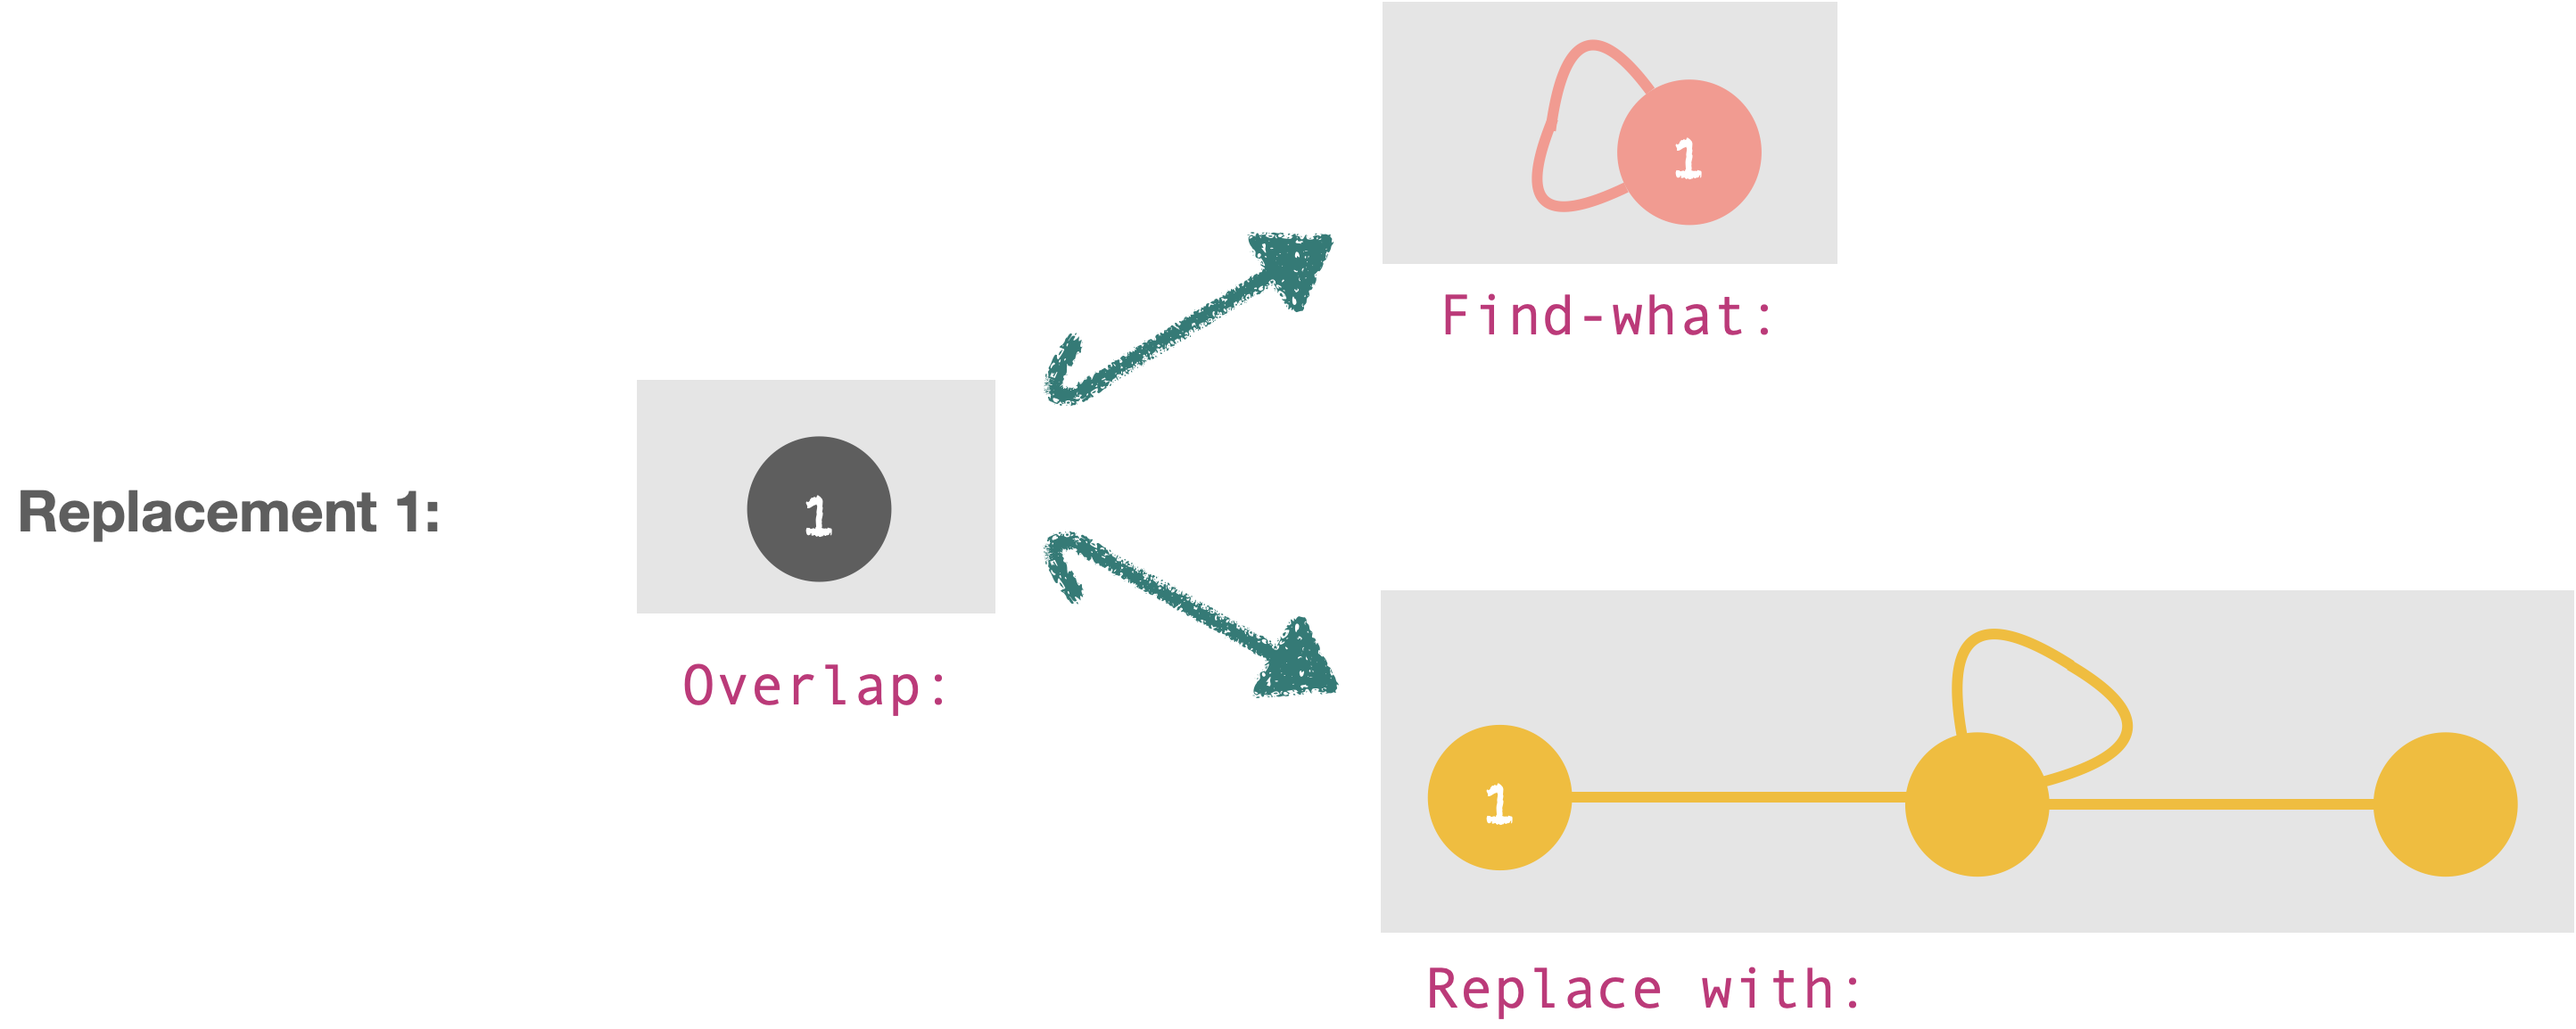
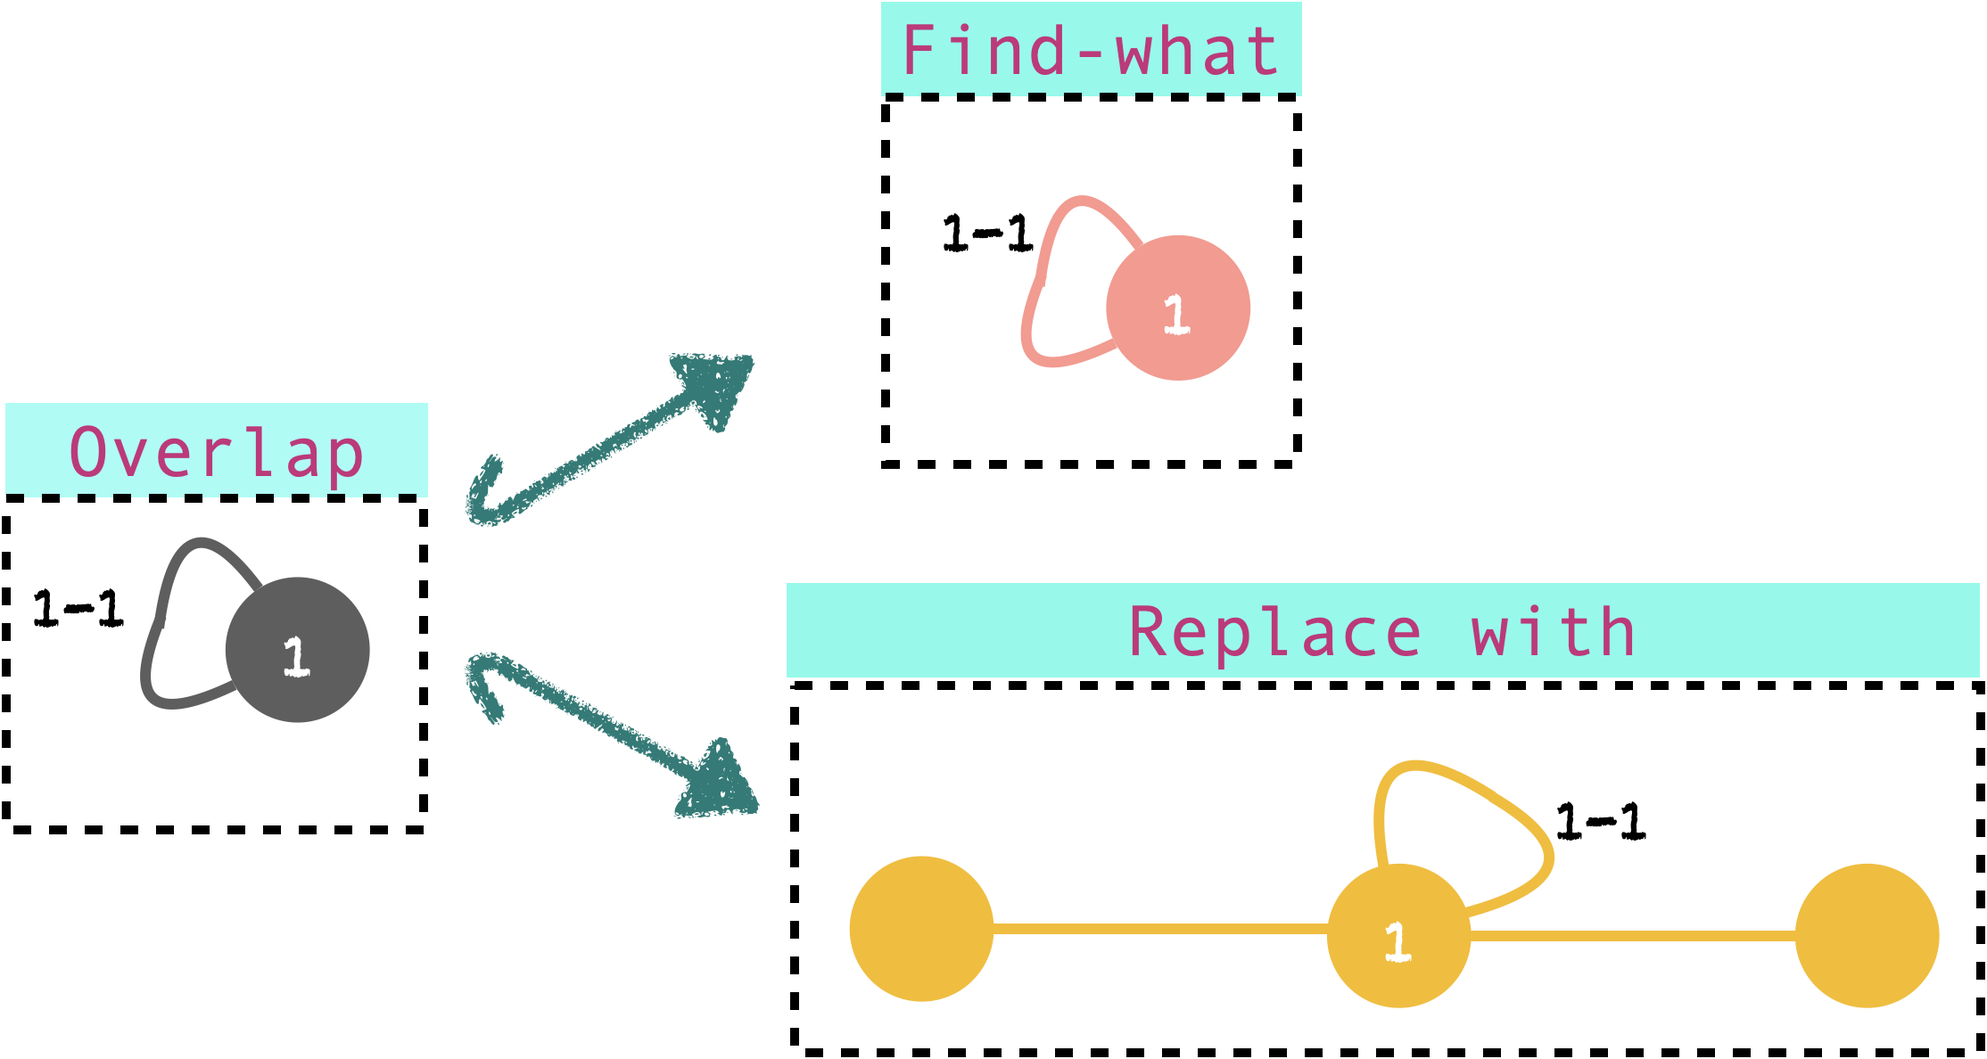
Ch 6: More updates

diff --git a/chp6-dpo.md b/chp6-dpo.md
@@ -12,16 +12,9 @@ kernelspec:
 
 # Chapter 6: Cut-Copy-Glue Graphs
 
-[Not ready for review]
+"Find-and-replace" feature of text editors is one of the most powerful innovations of the 20th century. Inspite of unavailability of statistics, the advantage of this feature is tangible and undeniable! Beyond text editors, the concept of "find and replace" has also caused much chaos in the world! When the European conquerors "found" native Americans settlements in Canada, they decided to "replace" the native culture by sending an entire generation of native American children to special missionary schools. This has resulted in trauma and chaos that continues well into the current times. Or a country waging war over another country to replace the exisiting government for political reasons! Or Large-scale replacement of forests by industries and settlements has adversely impacted global climate.
 
-[Our goal is not teaching how to do double pushout rewriting! 
-
-Our goal is to demonstrate how to use graph glueing for a real world problem -- graph rewriting. Or ask questions to guide the reader's thinking to solve the problem. ]
-
-
-"Find-and-replace" feature of text editors is one of the most powerful innovations of the 20th century. Inspite of unavailability of statistics, the advantage of this feature is tangible and undeniable! Beyond text editors, the concept of "find and replace" has also caused much chaos in the world than being helpful! When the European conquerors "found" native Americans settlements in Canada, they decided to "replace" the native culture by sending an entire generation of native American children to special missionary schools. This has resulted in trauma and chaos that continues well into the current times. Or a country trying to replace the ruling government of another country for political reasons. (may be an ecology example).  
-
-> We know in hindsight that these are very bad decisions for a society! But, what was missed in the decision making process? 
+> We know in hindsight these approaches have lead humanity to face issues bigger than they the ones they intended to solve! So, what was missed in the decision making process? 
 
 Let us consider a fun and non-political example -- the struggle of qutting sugar. Here is a simple explanation of a why quitting sugar is so hard! A usual thought-process behind attempting to quit sugar is: 
 
@@ -51,17 +44,17 @@ While being healthy makes a person happy, eating sugar makes a person happy in a
 
 If we want to make a change, it is recommended to start with something simple. The simple thing we shall do in this chapter is to build a way to make changes to an existing graph in a "good" way. By good, we mean that we do not end up with broken connections, and make precisely the changes that are intended. 
 
-Making changes to a graph may involve adding new vertices/edges (hence adding new connections) or removing existing vertices/edges (hence removing existing connections) or both. And these changes happen over particular region(s) of the graph.
+Making changes to a graph means adding new vertices/edges or removing existing vertices/edges or both. And these changes happen over particular region(s) of the graph (like a textual find and replace).
 
 A lot of concepts in the world around us are modelled as graphs. Hence, building a way to changing an existing graph that is guaranteed to be good is much more than just a theoretical exercise.
 
 Let us begin! 
 
-Given a pattern (a graph), and its replacement, our mission is to build a way to "find" the pattern in any host graph and "replace" it in a good way. 
+Given a pattern (a graph), and its replacement, our mission is to "find" the pattern in any host graph and "replace" it in a good way -- first by hand and then in computers. 
 
 ## 6.1. Specs for "find and replace"
 
-Microsoft Word provides an interface as in the picture below, to find a text and replace it with another text. This interface applies to any big body of text content. 
+Suppose we want to find a text and replace it by some other text in a document. Microsoft Word provides an interface as in the picture belowfor this purpose.  
 
 ```{image} assets/Ch6/find-and-replace.png
 :alt: Whoopsy!
@@ -77,9 +70,9 @@ How would the interface for find-and-replace in graphs look like?
 
 To begin with, let us think what would be filled in the "Find what:" and "Replace with:" boxes. 
 
-```Find what``` box must take in a graph. This is the search pattern that will be matched in a host graph. ```Replace with```: box should also take in a graph. This is the replace pattern that will replace the match. 
+```Find what``` box must take in a graph. This is the search pattern that will be matched in a host graph. ```Replace with``` box should also take in a graph. This is the replace pattern that will replace the match. 
 
-Great, we are already half-way through! Next, we must how ```Find what``` and ```Replace with``` relate! In text documents, there is only one way of replacing a text by another. But in graphs, there are multiple ways of replacing one graph by another unless specified. 
+Great, we are already half-way through! Next, we must how ```Find what``` and ```Replace with``` relate! In text documents, there is only one way of replacing a text by another. But in graphs, there are multiple ways of replacing one graph by another unless specified. Our goal is to find a match of `Find what` in the host graph and to replace it with `Replace with`. 
 
 Consider the following example:
 
@@ -92,7 +85,7 @@ Consider the following example:
 
 </br>
 
-Our goal is to find a match of `Find what` in the host graph and to replace it with `Replace with`. There is a match in the host graph which is the vertex with the self-loop. However, there are at least two ways to replace the match with `Replace with`, as shown below.  
+There is a match in the host graph which is the vertex with the self-loop. However, there are at least two ways to replace the match with `Replace with`, as shown below.  
 
 ```{image} assets/Ch6/replacements.png
 :alt: Whoopsy!
@@ -130,9 +123,17 @@ We know from Chapter 5, how to specify overlap between two graphs :) Do you reme
 :align: center
 ```
 
-The only requirement in this case will be that the arrows needs to be **injective morphisms** (each vertex / edge of search pattern overlaps with at most one vertex / edge of the replacement pattern). 
+The only requirement in this case will be that the arrows needs to be **injective morphisms** (each vertex of the search pattern must overlap with a unique vertex of the replacement pattern. Similary for the edges). 
 
-Let us specify the overlaps for Replacement-1: 
+:::{admonition} Pause and ponder
+
+How does the search and the replace patterns overlap in the two different cases of replacement shown above?
+
+:::
+
+The solutions are as follows!
+
+For replacement-1, 
 
 ```{image} assets/Ch6/interface-1.png
 :alt: Whoopsy!
@@ -140,7 +141,7 @@ Let us specify the overlaps for Replacement-1:
 :align: center
 ```
 
- and Replacement-2:
+ and replacement-2:
 
 ```{image} assets/Ch6/interface-2.png
 :alt: Whoopsy!
@@ -148,10 +149,19 @@ Let us specify the overlaps for Replacement-1:
 :align: center
 ```
 
+</br>
 
-Note that, the vertices and the edges of the search pattern which do not overlap are to be removed (from the host after finding a match). So, the embedding from `overlap` to `Find what` is the **specification for deletion**.
 
-The vertices and the edges of the search pattern which do not overlap are to be added (to the host after finding a match). So, the embedding from `overlap` to `Replace with` is the **specification for addition**.
+Note that, the vertices and the edges of the search pattern outside the overlap region are removed from the host. For example, in case 2, the self-loop of the search pattern is outside the overlap. So it has been removed during the replacement procedure. What overlaps in the search pattern is alone retained. So, the embedding from `overlap` to `Find what` is the **specification for deletion**. 
+
+
+```{image} assets/Ch6/interfaceExample.png
+:alt: Whoopsy!
+:width: 625px
+:align: center
+```
+
+The vertices and the edges of the replacement pattern outside the overlap region are added to the host grpah. In case 2, these are unlabelled yellow color nodes in `Replace with` are outside the overlap region. They have been added to the host graph during the replacement. So, the embedding from `overlap` to `Replace with` is the **specification for addition**.
 
 The overlap will be unchanged. It is precisely what remains after removing specified edges/vertices from the search pattern.
 
@@ -218,7 +228,7 @@ The interface to find-and-replace needs to have:
 
 The next step is to answer how to find a match of a search pattern inside a host graph, similar to finding some text in a document. When a text editor receives an input like this, it find (exact) matches of the string of characters "Happy Priyaa". 
 
-```{image} assets/Ch4/find-and-replace-text.png
+```{image} assets/Ch6/find-and-replace-text.png
 :alt: Whoopsy!
 :width: 250px
 :align: center
@@ -612,7 +622,7 @@ A search pattern (`Find what`) found in a graph is carved into another pattern (
 
 ::: 
 
-Common literature call our "Find-and-replace machinery" for graphs as Double Pushout Rewriting (DPO).
+Common literature calls our "Find-and-replace machinery" for graphs as Double Pushout Rewriting (DPO). 
 
 ## 6.6. Find-and-replace in chemistry
 
@@ -690,7 +700,7 @@ Now a corridor needs to be added between Room 1 and Room 2, and arrows need to b
 
 </br>
 
-Reshaping directed graph follows the same idea as undirected graphs. Now this "M-M" rule 
+Reshaping directed graph follows the same idea as undirected graphs. The find-and-replace rule shall be applied to reshape Bob's game layoout!
 
 ## 6.8. Exporting the Find-and-replace machinery to computers via Algebraic Julia
 
@@ -698,10 +708,22 @@ Reshaping directed graph follows the same idea as undirected graphs. Now this "M
 
 ## A note on vocabulary
 
-"Find and replace" procedure tuned to its environment. 
+We would like to bring reader's attention to the some vocabulary common in practice since language influences thinking and vice versa.
 
-"Match and Meet"
+The idea of "Find and replace" is a crude one in the sense it is unaware of the context of replacement. A text editor will allow me to replace "truth" by "lie" anywhere in the document. Context-unaware find and replace leads to chaos.
 
-"Graph reshaping"
+The mathematics we used to "find-and-replace" in graphs tells us that it is not a replacement, rather it is integration of a new pattern in the place of an exisiting pattern. To integrate is organic and harmonoius by nature! While to replace has an air of superiority about it! Replace is useful -- replacing inflated tyres, replacing broken chain, etc.! However, in situations involving multiple interconnected entities, relational thinking recommends a shift in vocabulary from "Find-and-replace" to "Find-and-integrate". 
+
+:::{admonition} Slogan
+:class: tip
+
+ Replace "replace" by "integrate" 
+
+::: 
+
+This slogan probably is the answer to all the political issues mentioned in the beginning of the chapter. 
+
+
+
 
 
